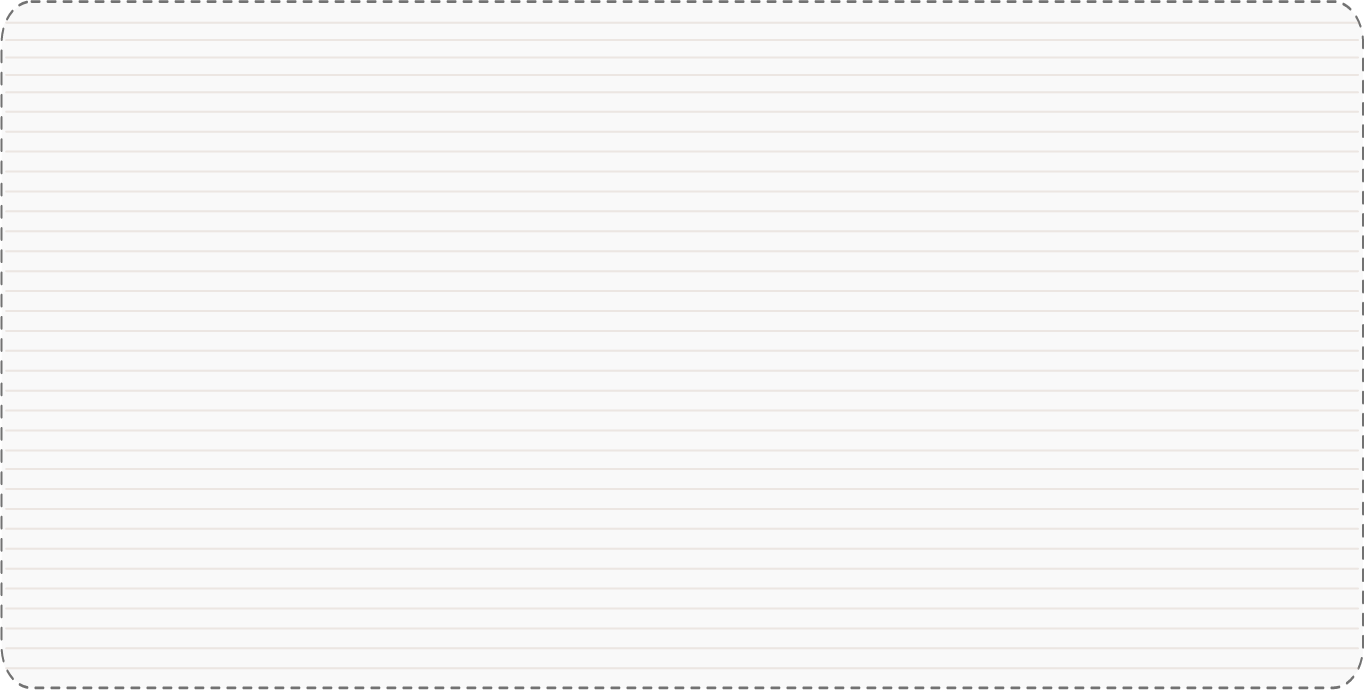
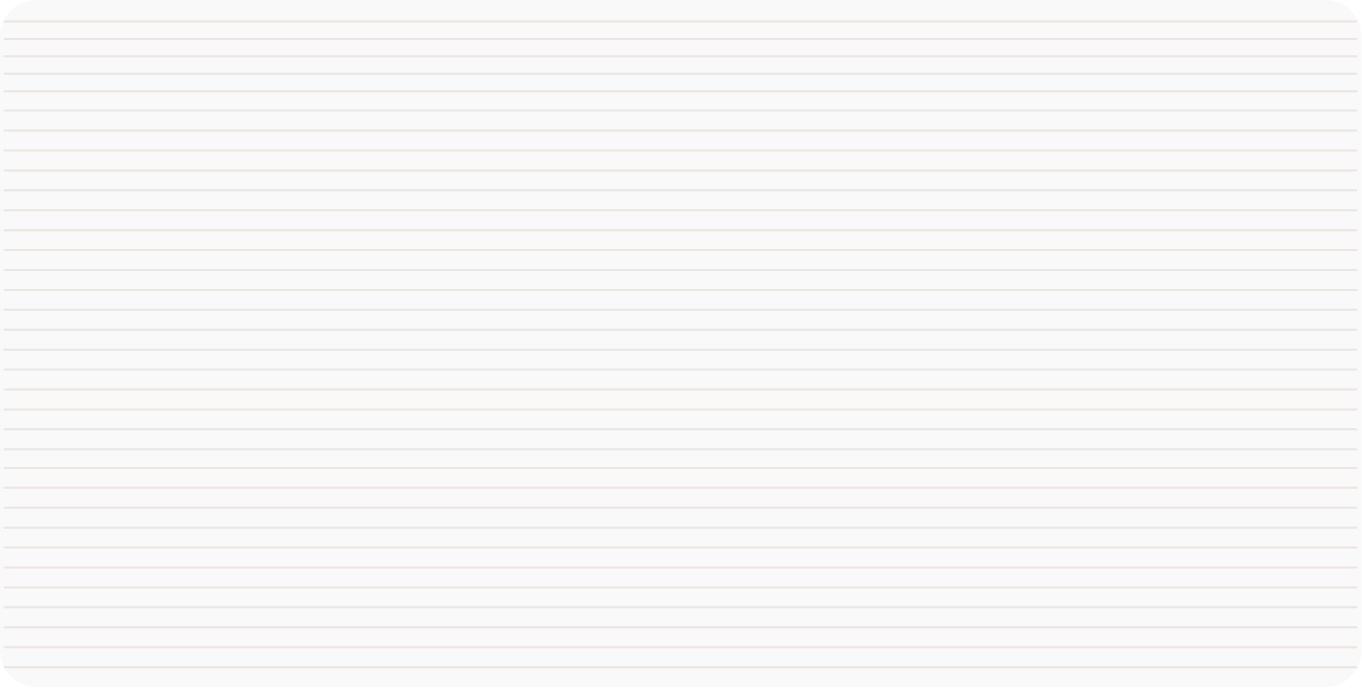
snehal commit

diff --git a/index.html b/index.html
@@ -65,32 +65,32 @@
                         </div>
                         <div class="nutshell-box">
                             <div class="nutshell-img">
-                                <img src="img/nutshell-1.png" alt="">
+                                <img src="img/nutshell-2.png" alt="">
                             </div>
                             <div class="nutshell-info text-center">
-                                <h3>Ranks 1st in France</h3>
-                                <p>Trusted Leader Since 2008
-                                    Pioneer in Early Language Learning</p>
+                                <h3>Competitive Pay Rates</h3>
+                                <p>Best Pay Rate in the Industry
+                                    Transportation & Healthcare Benefits</p>
                             </div>
                         </div>
                         <div class="nutshell-box">
                             <div class="nutshell-img">
-                                <img src="img/nutshell-1.png" alt="">
+                                <img src="img/nutshell-3.png" alt="">
                             </div>
                             <div class="nutshell-info text-center">
-                                <h3>Ranks 1st in France</h3>
-                                <p>Trusted Leader Since 2008
-                                    Pioneer in Early Language Learning</p>
+                                <h3>In-Home Teaching</h3>
+                                <p>Fun & Tailored Lesson Plans
+                                    No Prior Teaching Experience Needed</p>
                             </div>
                         </div>
                         <div class="nutshell-box">
                             <div class="nutshell-img">
-                                <img src="img/nutshell-1.png" alt="">
+                                <img src="img/nutshell-4.png" alt="">
                             </div>
                             <div class="nutshell-info text-center">
-                                <h3>Ranks 1st in France</h3>
-                                <p>Trusted Leader Since 2008
-                                    Pioneer in Early Language Learning</p>
+                                <h3>Unmatched Benefits</h3>
+                                <p>Free French Classes
+                                    Free Trips Around Europe</p>
                             </div>
                         </div>
                     </div>
@@ -222,14 +222,23 @@
                                 <img src="img/quotes.png" alt="">
                             </div>
                             <p class="feedback-text text-center">
-                                The family I worked with was very receptive, respectful and supportive and this really
-                                created a great environment for me and their child to bond and to have many positive
-                                learning and
-                                non-learning moments together.
+                                A great experience. I not only had a wonderful time with the children, I gained experience and learned a lot that will help me in my future career. Thanks to the method and the teaching assignments, I could see the children speak and understand more and more, which was very rewarding.
                             </p>
                             <div class="text-center">
-                                <p class="feedback-user">Sarah</p>
-                                <p class="feedback-date">September, 2023</p>
+                                <p class="feedback-user">Helen</p>
+                                <p class="feedback-date">June 2023</p>
+                            </div>
+                        </div>
+                        <div class="feedback-box">
+                            <div class="quotes">
+                                <img src="img/quotes.png" alt="">
+                            </div>
+                            <p class="feedback-text text-center">
+                                Looking after and teaching such young kids has really increased my sense of responsibility and leadership. Working in and between two languages has enhanced my linguistic and cultural communication knowledge and skills as well.
+                            </p>
+                            <div class="text-center">
+                                <p class="feedback-user">Anna</p>
+                                <p class="feedback-date">June 2023</p>
                             </div>
                         </div>
                         <div class="feedback-box">
@@ -243,22 +252,7 @@
                                 non-learning moments together.
                             </p>
                             <div class="text-center">
-                                <p class="feedback-user">Sarah</p>
-                                <p class="feedback-date">September, 2023</p>
-                            </div>
-                        </div>
-                        <div class="feedback-box">
-                            <div class="quotes">
-                                <img src="img/quotes.png" alt="">
-                            </div>
-                            <p class="feedback-text text-center">
-                                The family I worked with was very receptive, respectful and supportive and this really
-                                created a great environment for me and their child to bond and to have many positive
-                                learning and
-                                non-learning moments together.
-                            </p>
-                            <div class="text-center">
-                                <p class="feedback-user">Sarah</p>
+                                <p class="feedback-user">Anna</p>
                                 <p class="feedback-date">September, 2023</p>
                             </div>
                         </div>
@@ -279,24 +273,26 @@
                                 </div>
                                 <div class="work-box">
                                     <div class="work-box-img">
-                                        <img src="img/euro-icon.png" alt="">
+                                        <img src="img/icon-clock.png" alt="">
                                     </div>
-                                    <p class="work-box-txt text-center">Premier
-                                        Pay Rates</p>
+                                    <p class="work-box-txt text-center">Flexible
+                                        Work Setups</p>
                                 </div>
                                 <div class="work-box">
                                     <div class="work-box-img">
-                                        <img src="img/euro-icon.png" alt="">
+                                        <img src="img/icon-flag.png" alt="">
                                     </div>
-                                    <p class="work-box-txt text-center">Premier
-                                        Pay Rates</p>
+                                    <p class="work-box-txt text-center">Open to All
+                                        French
+                                        Competencies</p>
                                 </div>
                                 <div class="work-box">
                                     <div class="work-box-img">
-                                        <img src="img/euro-icon.png" alt="">
+                                        <img src="img/icon-star.png" alt="">
                                     </div>
-                                    <p class="work-box-txt text-center">Premier
-                                        Pay Rates</p>
+                                    <p class="work-box-txt text-center">No Teaching
+                                        Experience
+                                        Required</p>
                                 </div>
                             </div>
                         </div>
@@ -320,23 +316,24 @@
                             </div>
                         </div>
                         <div class="apply-box text-center">
-                            <h3>Already In France?</h3>
+                            <h3>Planning On Coming?</h3>
                             <div class="apply-box-img">
-                                <img src="img/icon-tower.png" alt="">
+                                <img src="img/globe-icon.png" alt="">
                             </div>
-                            <p class="apply-txt text-center">Babylangues offers language instructor positions in 18 cities across France. Whether you're an EU citizen, participating in an Erasmus exchange, holding a student visa, working holiday visa, or an expatriate, whether it's for a gap year, year abroad, postgraduate studies, or any other circumstance.</p>
-                            <p class="browse-txt">Browse our jobs!</p>
+                            <p class="apply-txt text-center">Are you considering moving to France and wondering how you could secure a job before diving into the unknown? Babylangues has got you covered and has successfully welcomed language instructors from all over the world for the past 10 years!</p>
+                            <p class="browse-txt">Babylangues has a job for you!</p>
                             <a href="javascript:;" class="btn">
                             APPLY NOW
                             </a>
                         </div>
                         <div class="apply-box text-center">
-                            <h3>Already In France?</h3>
+                            <h3>Don't Know Yet?</h3>
                             <div class="apply-box-img">
-                                <img src="img/icon-tower.png" alt="">
+                                <img src="img/q-mark-cion.png" alt="">
                             </div>
-                            <p class="apply-txt text-center">Babylangues offers language instructor positions in 18 cities across France. Whether you're an EU citizen, participating in an Erasmus exchange, holding a student visa, working holiday visa, or an expatriate, whether it's for a gap year, year abroad, postgraduate studies, or any other circumstance.</p>
-                            <p class="browse-txt">Browse our jobs!</p>
+                            <p class="apply-txt text-center">Whether you find moving overseas too daunting right now or simply have no idea when you will finally make that move to France, Babylangues provides all the administrative support you need to plan a safe and unforgettable experience.</p>
+                            <p class="browse-txt">Experience French Culture<br>
+                                like never before!</p>
                             <a href="javascript:;" class="btn">
                             APPLY NOW
                             </a>

diff --git a/css/style.css b/css/style.css
@@ -222,7 +222,7 @@ body{background-color: var(--yellow);}
 .sec-nutshell{background-color: var(--yellow);    padding-bottom: 100px;}
 .sec-nutshell .nutshell-note-box{padding: 0 25%;margin-bottom: 60px;}
 .sec-nutshell .nutshell-note-box p{color: #4C6572;font-size: 24px;font-family: var(--segoe-regular);line-height: 1.2;}
-.nutshell-info{background-color: var(--blue);border-radius: var(--radius);padding: 50px;padding-top: 131px;}
+.nutshell-info{background-color: var(--blue);border-radius: var(--radius);padding: 50px 30px;padding-top: 131px;}
 .nutshell-img{margin-bottom: -101px;}
 .nutshell-img img{margin: 0 auto;}
 .nutshell-box h3{font-size: 24px;line-height: 1.2;color: var(--white-lg);margin-bottom: 15px;}
@@ -310,7 +310,7 @@ body{background-color: var(--yellow);}
 .join-section .container-sm{padding: 0 31px;}
 .join-section .sec-head{color: #55879C;text-align: center;}
 .join-section p{color:#4C6572; font-size: 24px;text-align: center;margin-top: 15px;}
-.join-section .form-sec-wrapper{display: flex;margin-top: 26.3px;padding: 52px 0;background-image: url(../img/contact-bg.png);background-repeat:no-repeat;background-size: cover;}
+.join-section .form-sec-wrapper{display: flex;margin-top: 26.3px;padding: 52px 0;background-image: url(../img/contact-bg.png);background-repeat:no-repeat;background-size: cover;border: 2px dashed #707070;border-radius: 30px;}
 .join-section .form-sec-wrapper .form-box{width: calc(100% - 41%);padding-left: 110px;padding-right: 36px;}
 .join-section .form-sec-wrapper .form-r-box{width: 41%;padding-right: 47px;}
 .join-section .form-sec-wrapper .form-box .input-box label{display: block;font-size: 17px;color: #4C6572;}

diff --git a/css/media.css b/css/media.css
@@ -1,12 +1,18 @@
 @media screen and (max-width: 1700px){
-    .nutshell-info{padding: 40px;    padding-top: 131px;}
+    .nutshell-info{padding: 40px 12px;    padding-top: 131px;}
     .sec-standout .feedback-box{padding: 50px 45px 40px;}
     .sec-standout .work-box-img{width: 145px;height: 145px;}
+
+
+    .join-section .container-sm{padding:0}
     
 }/*1600*/
 
 @media screen and (max-width: 1500px){
-    
+    .join-section .form-sec-wrapper .form-box{padding-left:70px}
+
+    .join-section .form-sec-wrapper .form-r-box{padding-right:40px}
+    .join-section .form-sec-wrapper{padding:40px 0}
     
 }/* EXTRA IF REQUIRED*/
 
@@ -31,6 +37,8 @@
     .sec-about::after{background-size: 100px;height: 44px; bottom: -5%;}
     .sec-standout .feedback-box{padding: 30px 40px 30px;}
     
+
+
     
 }/*1366*/
 
@@ -39,7 +47,16 @@
     .nutshell-info {padding: 20px;padding-top: 125px;}
     .hero-text-strip h1 {font-size: 55px;}
     .sec-standout .work-box-txt, .sec-nutshell .nutshell-note-box p, .hero-text-strip h2 {font-size: 20px;}
-    
+    .join-section .form-sec-wrapper .form-box {
+        padding-left: 45px;
+    }
+    .join-section .form-sec-wrapper {
+        padding: 31px 0;
+    }
+    .join-section p{font-size:20px}
+    .join-section .form-sec-wrapper .form-box .input-box label{font-size:15px}
+    .join-section .form-sec-wrapper .form-box .note-txt{font-size: 15px}
+    .join-section .form-sec-wrapper .form-box .btn{font-size: 32px;}
 }/*1280*/
 
 
